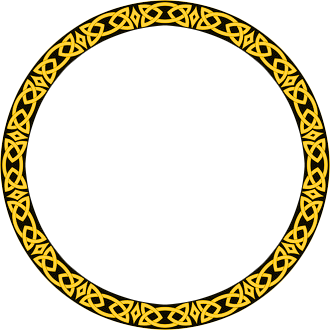
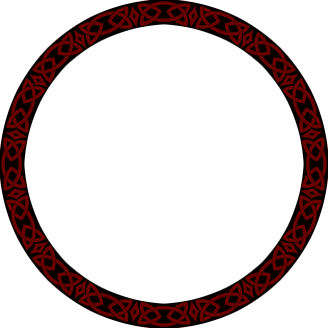
add traveller overflow

Changed region(s): [[0.0, 0.0, 1.0, 1.0]]

diff --git a/main.js b/main.js
@@ -48,7 +48,7 @@ class NightCounter{
 var counter = new NightCounter();
 // TODO fabled
 // * TODO fancify night widget
-// TODO higher player limit to include travellers
+// * TODO higher player limit to include travellers
 
 function generate_game_state_json() {
   var state = new Object();
@@ -577,14 +577,13 @@ async function player_count_change() {
     document.getElementById("player_count").value = 5;
     player_count_tmp = 5
   }
+  let player_count = player_count_tmp;
   if (player_count_tmp > 15) {
-    document.getElementById("player_count").value = 15;
     player_count_tmp = 15
   }
-  let player_count = player_count_tmp;
   tableIndex = parseInt(player_count_tmp)-5;
   var table = [[3,0,1,1],[3,1,1,1],[5,0,1,1],[5,1,1,1],[5,2,1,1],[7,0,2,1],[7,1,2,1],[7,2,2,1],[9,0,3,1],[9,1,3,1],[9,2,3,1],[10,2,3,1],[11,2,3,1],[11,3,3,1]]
-  var counts = [0, 0, 0, 0];
+  var counts = [0, 0, 0, 0, 0];
   tokens = document.getElementsByClassName("role_token");
   if (!loading) { //dont try to update player counts before menu is loaded
     var expected = new Object();
@@ -593,6 +592,7 @@ async function player_count_change() {
     expected.out = [table[tableIndex][1], 0, 0, false];
     expected.min = [table[tableIndex][2], 0, 0, false];
     expected.dem = [table[tableIndex][3], 0, 0, false];
+    expected.trav = [0, 0, 0, false];
     async function makeupMod(id) {
       let lambdas = {"HARD":((cat, mod)=>{expected[cat][0]+=mod}),
                      "SOFTPOS":((cat, mod)=>{expected[cat][1]+=mod}),
@@ -632,6 +632,9 @@ async function player_count_change() {
         case "DEM":
           if (visibility == "show") {counts[3]++;}
         break;
+        case "TRAV":
+          if (visibility == "show") {counts[4]++;}
+        break;
       }
       await makeupMod(tokens[i].id.match(/.*(?=_token_)/)[0])
     }
@@ -658,6 +661,8 @@ async function player_count_change() {
     document.getElementById("ratio_OUT").innerHTML = counts[1] + "/" + expected["out"][0] + genSoftModString(expected["out"][1], expected["out"][2]);
     document.getElementById("ratio_MIN").innerHTML = counts[2] + "/" + expected["min"][0] + genSoftModString(expected["min"][1], expected["min"][2]);
     document.getElementById("ratio_DEM").innerHTML = counts[3] + "/" + expected["dem"][0] + genSoftModString(expected["dem"][1], expected["dem"][2]);
+    if (player_count > 15) {expected["trav"][0] += player_count - 15}
+    document.getElementById("ratio_TRAV").innerHTML = counts[4] + "/" + expected["trav"][0] + genSoftModString(expected["trav"][1], expected["trav"][2]);
   }
 }
 function update_role_counts(){
@@ -704,7 +709,6 @@ function clean_board() {
   const pips = document.getElementById("dragPipLayer").children;
   for (let it = pips.length-1; it>=0; it--) {
     if (pips[it].getAttribute("stacked") == "false") {
-      console.log(pips[it])
       delete_reminder(pips[it].id);
     }
   }

diff --git a/main.css b/main.css
@@ -88,7 +88,7 @@ html, body {overscroll-behavior: none;}
 .night_wedge_circle_bg {width: 150px; height: 75px; position: absolute; background-position: center; background-repeat: no-repeat; background-size: cover;}
 #night_wedge_circle_day {background-image: url(assets/sky.png); top: 0px; transform: rotate(180deg);}
 #night_wedge_circle_night {background-image: url(assets/night.png); bottom: 0px;}
-#night_wedge_circle_border {position: absolute; top: 0px; left: 0px; width: 100%; height: 100%; cursor: pointer; background-image: url(assets/border2.png); background-position: center; background-repeat: no-repeat; background-size: contain;}
+#night_wedge_circle_border {position: absolute;top: 0px;left: 0px;width: 100%;height: 100%;cursor: pointer;background-image: url(assets/border.png);background-position: center;background-repeat: no-repeat;background-size: contain;}
 .night_wedge_back { width: 40px; height: 40px; clip-path: polygon(0% 50%, 100% 0%, 100% 100%); background-image: url('assets/background-img2.webp'); position: absolute; cursor: pointer;}
 #night_wedge_day_back    {left: calc(50% + 53px);    top: 25px; transform: rotate(180deg);}
 #night_wedge_night_back {right: calc(50% + 53px); bottom: 25px;}
